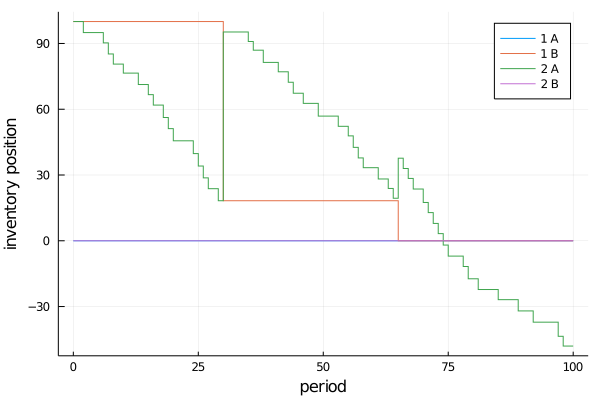
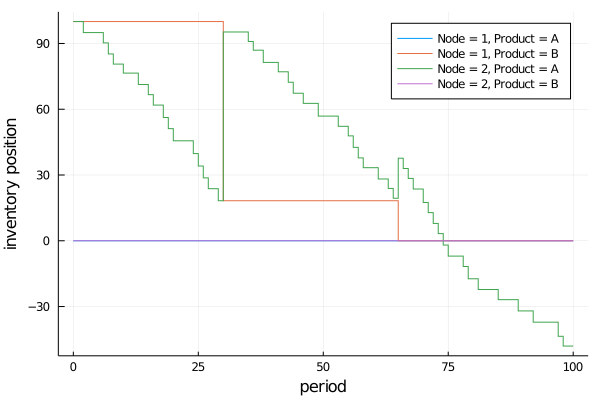
update figs

Changed region(s): [[0.63, 0.06, 0.93, 0.27], [0.66, 0.03, 0.81, 0.06]]

diff --git a/README.md b/README.md
@@ -69,8 +69,8 @@ The following assumptions hold in the current implementation, but can be modifie
 The following features are not currently supported:
 
 - Alternate bills of materials (see [Model Inputs](#graph-specific)) for the same product are not currently supported. This is particularly relevant for chemical systems. However, the following workarounds can be done:
-  - If the alternate reaction pathway has a byproduct, then the main product can be included as a co-product in the bill of materials of the byproduct. For example: A system with 5 materials (`:A - :E`) can have two ways to produce `:A`, `:B + :C -> :A` and `:D -> :A + :E`. The column for product `:A` can have the bill of material: `[0 -1 -1 0 0]`. The column for product `:E` can have the bill of materials: `[1 0 0 -1 0]`. However, `:A` will only be produced by the second pathway if a request for `:E` is made. 
-  - Make a copy of the material to specify an alternate pathway. This will require specifying parameters for the copied material throughout the network. 
+  - If the alternate reaction pathway has a byproduct, then the main product can be included as a co-product in the bill of materials of the byproduct. For example: A system with 5 materials (`:A - :E`) can have two ways to produce `:A`, `:B + :C -> :A` and `:D -> :A + :E`. The column for product `:A` can have the bill of material: `[0 -1 -1 0 0]`. The column for product `:E` can have the bill of materials: `[1 0 0 -1 0]`. However, `:A` will only be produced by the second pathway if a request for `:E` is made.
+  - Make a copy of the material to specify an alternate pathway. This will require specifying parameters for the copied material throughout the network.
 
 ## Inventory replenishment policies
 
@@ -212,11 +212,11 @@ end
 #profit
 node_profit = groupby(env.profit, :node)
 profit = transform(node_profit, :value => cumsum)
-fig1 = @df profit plot(:period, :value_cumsum, group=:node, legend = :topleft,
+fig1 = @df profit plot(:period, :value_cumsum, group={Node = :node}, legend = :topleft,
                     xlabel="period", ylabel="cumulative profit")
 
 #inventory position
-fig2 = @df env.inv_position plot(:period, :level, group=(:node, :product), linetype=:steppost,
+fig2 = @df env.inv_position plot(:period, :level, group={Node = :node, Product = :product}, linetype=:steppost,
                     xlabel="period", ylabel="inventory position")
 ```
 ![](examples/figs/ex1_profit.png)
